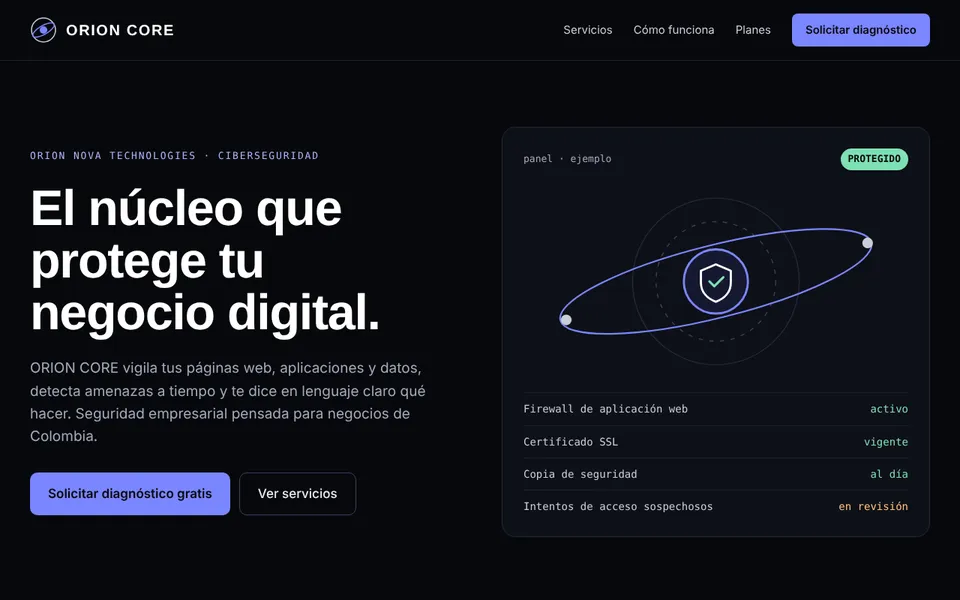
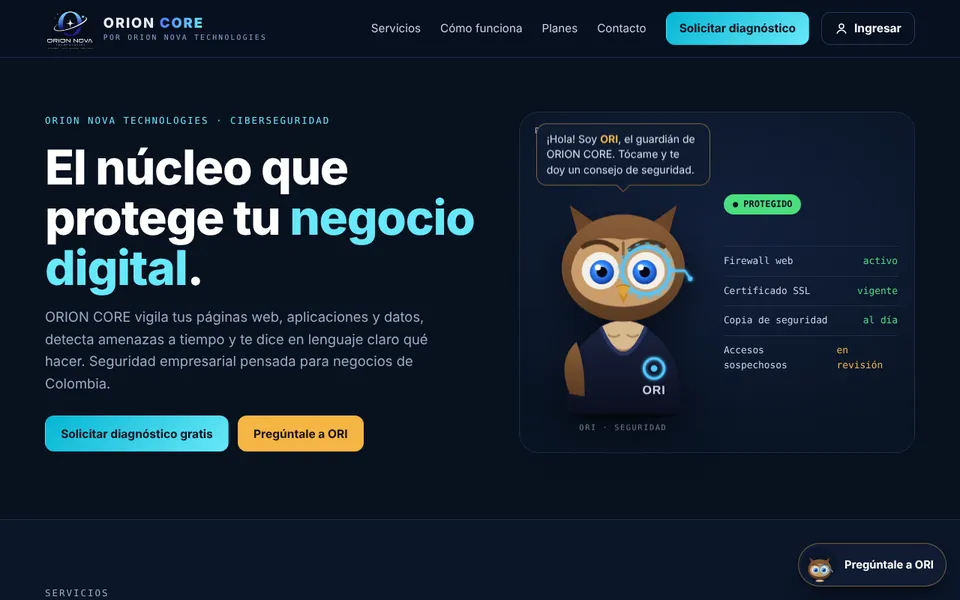
Portafolio: captura actualizada de ORION CORE con ORI y su login
Claude-Session: https://claude.ai/code/session_016bbFsvkQrDVmv756VJmicL

diff --git a/index.html b/index.html
@@ -1010,13 +1010,13 @@ code{font-family:var(--f-mono);font-size:.82em;background:var(--bg);border:1px s
         </div>
       </article>
       <article class="proj" data-estado="demo">
-        <div class="shot"><div class="browser" aria-hidden="true"><i></i><i></i><i></i><span>orion-nova-technologies-s-a-s.github.io/orion-core</span></div><img src="assets/portafolio/orion-core.webp" alt="Captura de la página de ORION CORE" width="960" height="600" loading="lazy" decoding="async"></div>
+        <div class="shot"><div class="browser" aria-hidden="true"><i></i><i></i><i></i><span>orion-nova-technologies-s-a-s.github.io/orion-core</span></div><img src="assets/portafolio/orion-core.webp?v=2" alt="Captura de la página de ORION CORE" width="960" height="600" loading="lazy" decoding="async"></div>
         <div class="body">
           <div class="row"><h3>ORION CORE</h3><span class="status demo">Página publicada</span></div>
           <dl>
             <div><dt>Problema</dt><dd>Muchos negocios no saben si su página, sus apps o sus datos están expuestos hasta que ya hay un problema.</dd></div>
             <div><dt>Solución</dt><dd>Servicio de ciberseguridad con cuatro capas: monitoreo 24/7, auditoría de vulnerabilidades, protección web y capacitación del equipo.</dd></div>
-            <div><dt>Tecnologías</dt><dd class="chips"><span>HTML y CSS</span><span>GitHub Pages</span><span>Ciberseguridad</span></dd></div>
+            <div><dt>Tecnologías</dt><dd class="chips"><span>HTML y JavaScript</span><span>Supabase</span><span>ORI asistente</span><span>Ciberseguridad</span></dd></div>
           </dl>
           <div class="foot"><a class="link-arrow" href="https://orion-nova-technologies-s-a-s.github.io/orion-core/" target="_blank" rel="noopener">Ver la página <svg viewBox="0 0 24 24" fill="none" stroke="currentColor" stroke-width="2"><path d="M7 17 17 7M8 7h9v9"/></svg></a></div>
         </div>
